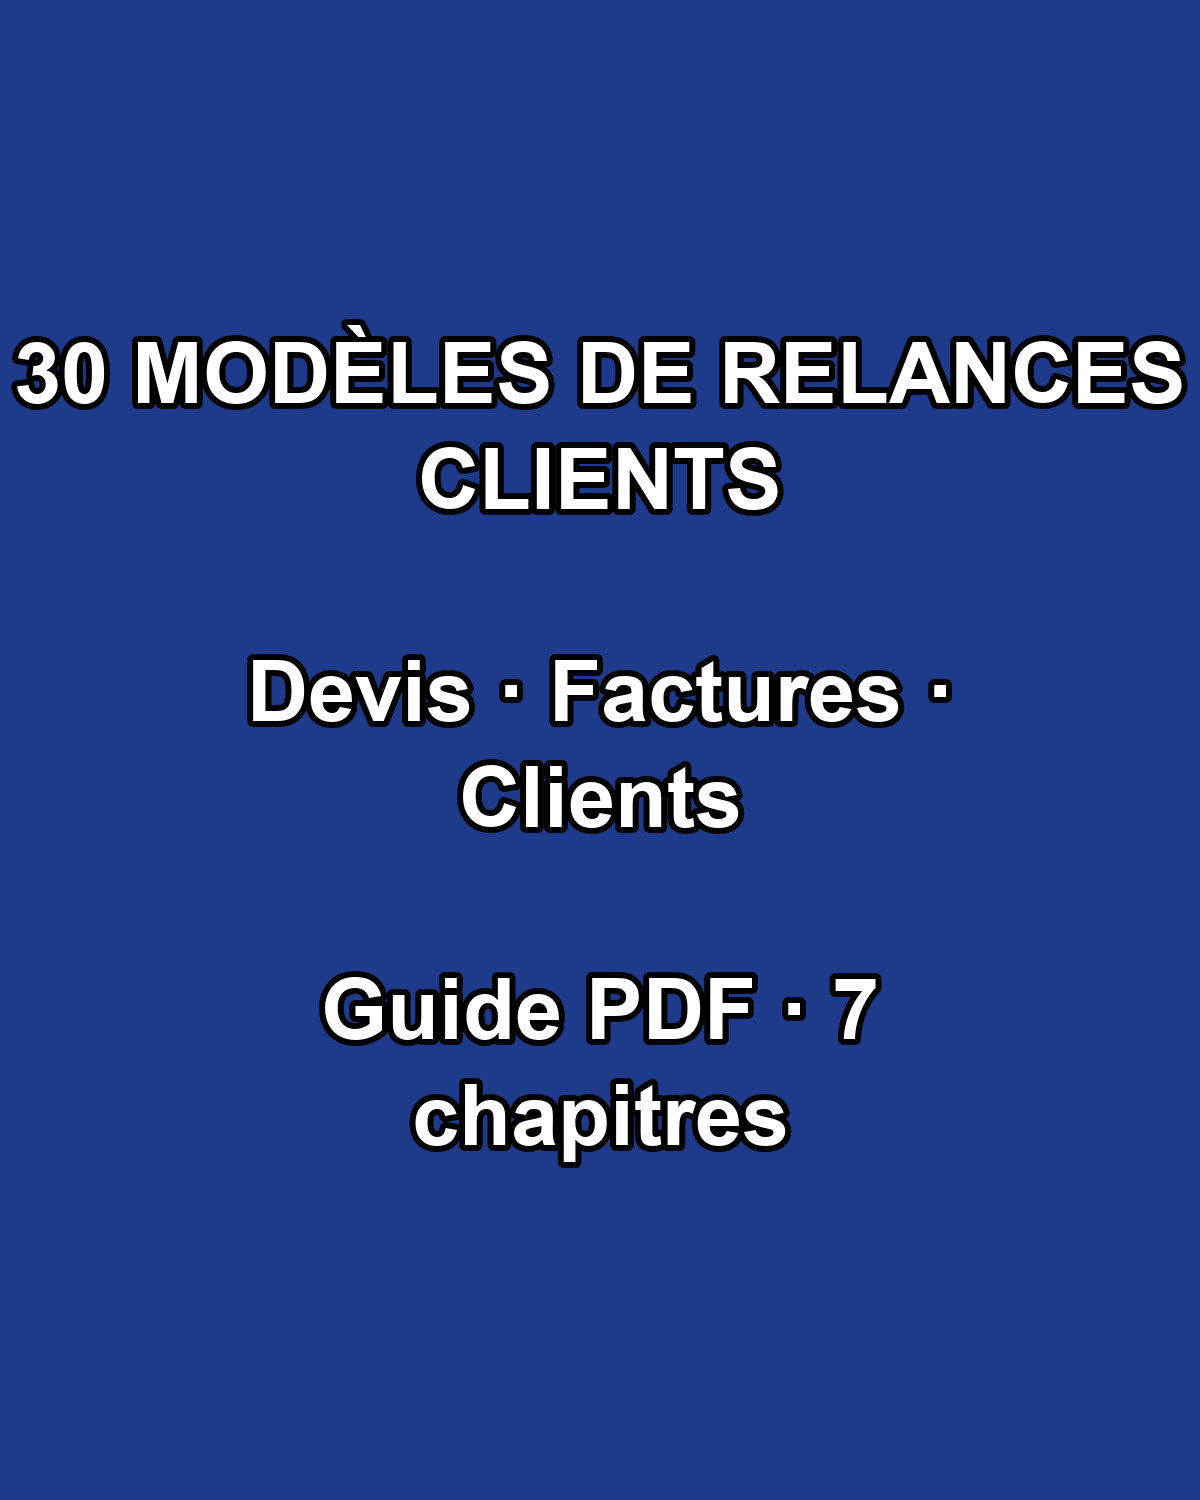
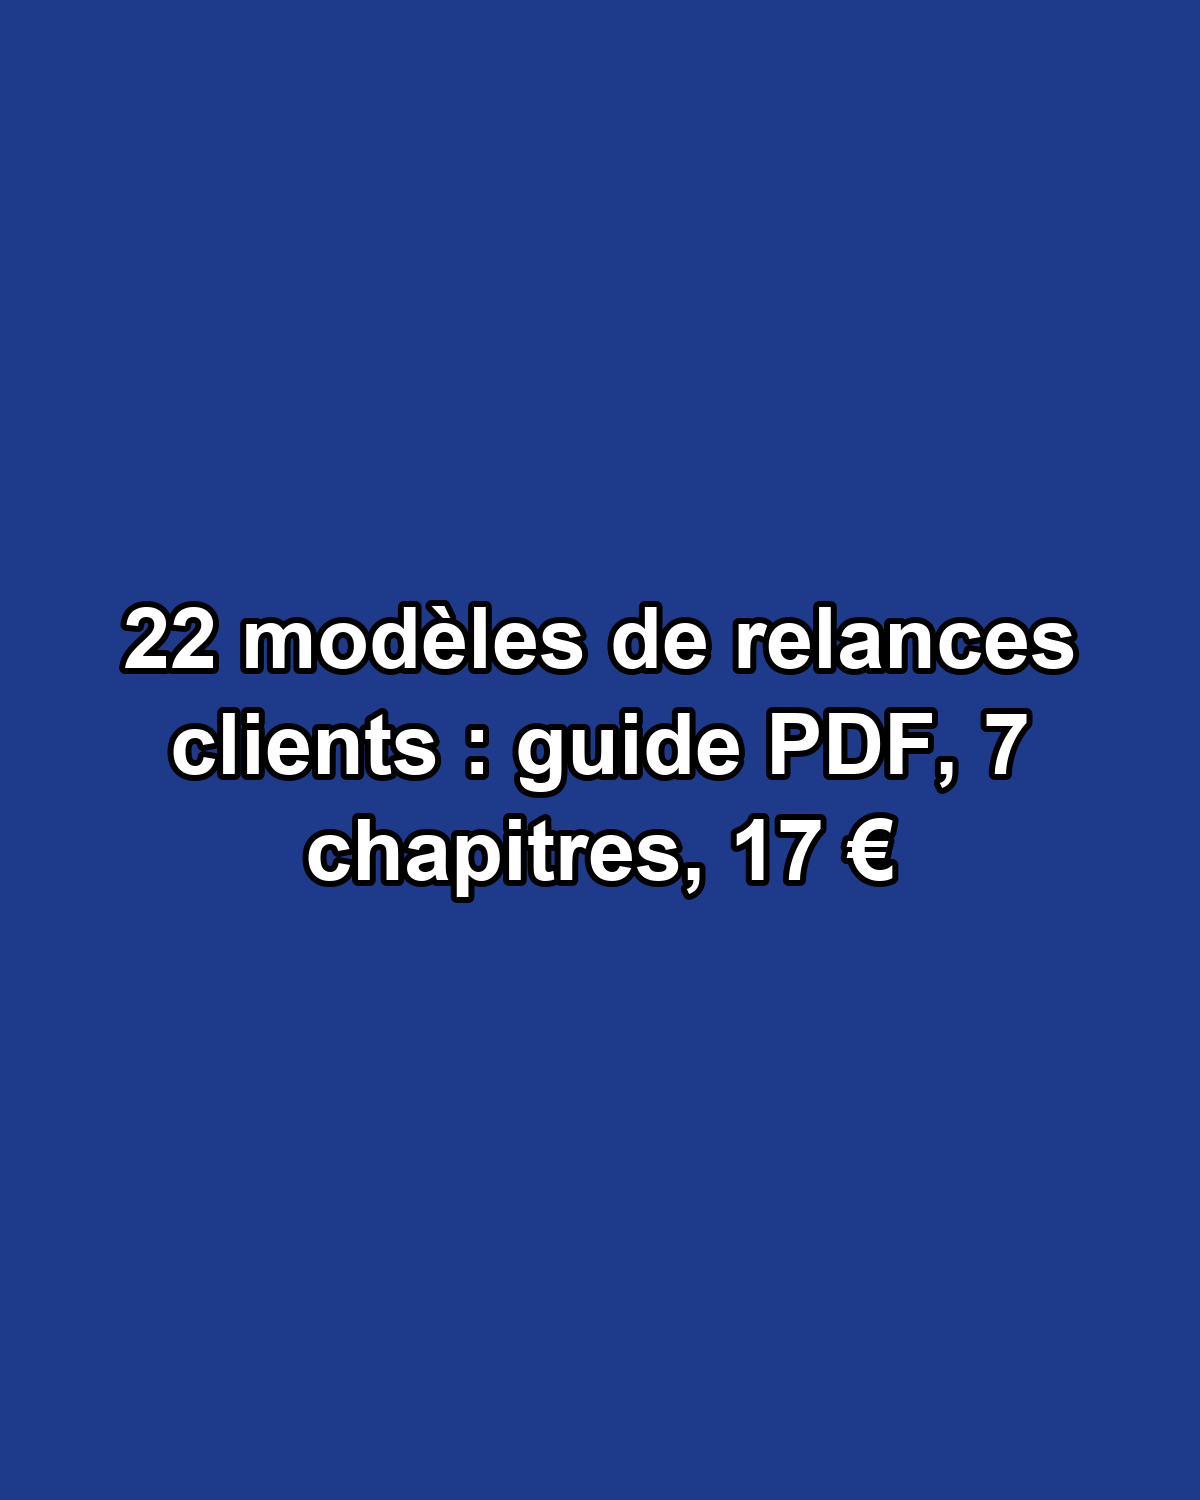
ICARUS AI : relances (7 fichiers)

Changed region(s): [[0.0925, 0.3987, 0.8942, 0.6133], [0.0, 0.2147, 0.9867, 0.368], [0.2467, 0.644, 0.74, 0.7973]]

diff --git a/relances/index.html b/relances/index.html
@@ -3,8 +3,8 @@
 <head>
 <meta charset="utf-8">
 <meta name="viewport" content="width=device-width, initial-scale=1">
-<title>30 modèles de relances clients : guide PDF à 17 € | ICARUS AI</title>
-<meta name="description" content="30 modèles de relances pour devis, factures et clients, prêts à copier. Guide PDF à 17 €, livré par e-mail après paiement. Créé avec une IA (ICARUS AI).">
+<title>22 modèles de relances clients : guide PDF à 17 € | ICARUS AI</title>
+<meta name="description" content="22 modèles de relances pour devis, factures et clients, prêts à copier. Guide PDF à 17 €, livré par e-mail après paiement. Créé avec une IA (ICARUS AI).">
 <style>
   :root {
     --principale: #1e3a8a;
@@ -145,11 +145,11 @@
     <div>
       <span class="etiquette">Pour les artisans, commerçants et indépendants</span>
       <h1>Relancez devis et factures sans être maladroit</h1>
-      <p class="sous-titre">30 modèles de relances prêts à copier, pour vos devis restés sans réponse, vos factures en attente et vos clients silencieux. Un guide PDF de 7 chapitres, à 17 € en paiement unique.</p>
+      <p class="sous-titre">22 modèles de relances prêts à copier, pour vos devis restés sans réponse, vos factures en attente et vos clients silencieux. Un guide PDF de 7 chapitres, à 17 € en paiement unique.</p>
       <a class="bouton" href="#offre">Recevoir le guide : 17 €</a>
       <p class="rassurance">PDF · livré par e-mail juste après le paiement, à l'adresse utilisée sur PayPal</p>
     </div>
-    <img class="apercu" src="apercu.png" alt="Couverture du guide « 30 modèles de relances clients », fond bleu, titre en blanc">
+    <img class="apercu" src="apercu.png" alt="Couverture du guide « 22 modèles de relances clients », fond bleu, titre en blanc">
   </div>
 </section>
 
@@ -204,11 +204,11 @@ Bonjour [Prénom], je me permets de revenir vers vous au sujet du devis envoyé 
 <section id="offre">
   <div class="conteneur">
     <div class="offre">
-      <h2 style="margin-bottom:8px">30 modèles de relances clients</h2>
+      <h2 style="margin-bottom:8px">22 modèles de relances clients</h2>
       <div class="prix">17 €<small> TTC</small></div>
       <p class="doux-texte">Paiement unique, pas d'abonnement</p>
       <ul class="liste">
-        <li>Guide PDF de 7 chapitres, 30 modèles de relances</li>
+        <li>Guide PDF de 7 chapitres, 22 modèles de relances</li>
         <li>Modèles copiables en texte, à adapter à vos clients</li>
         <li>Bonnes pratiques et calendrier de relance (J+3, J+10, J+21)</li>
       </ul>
